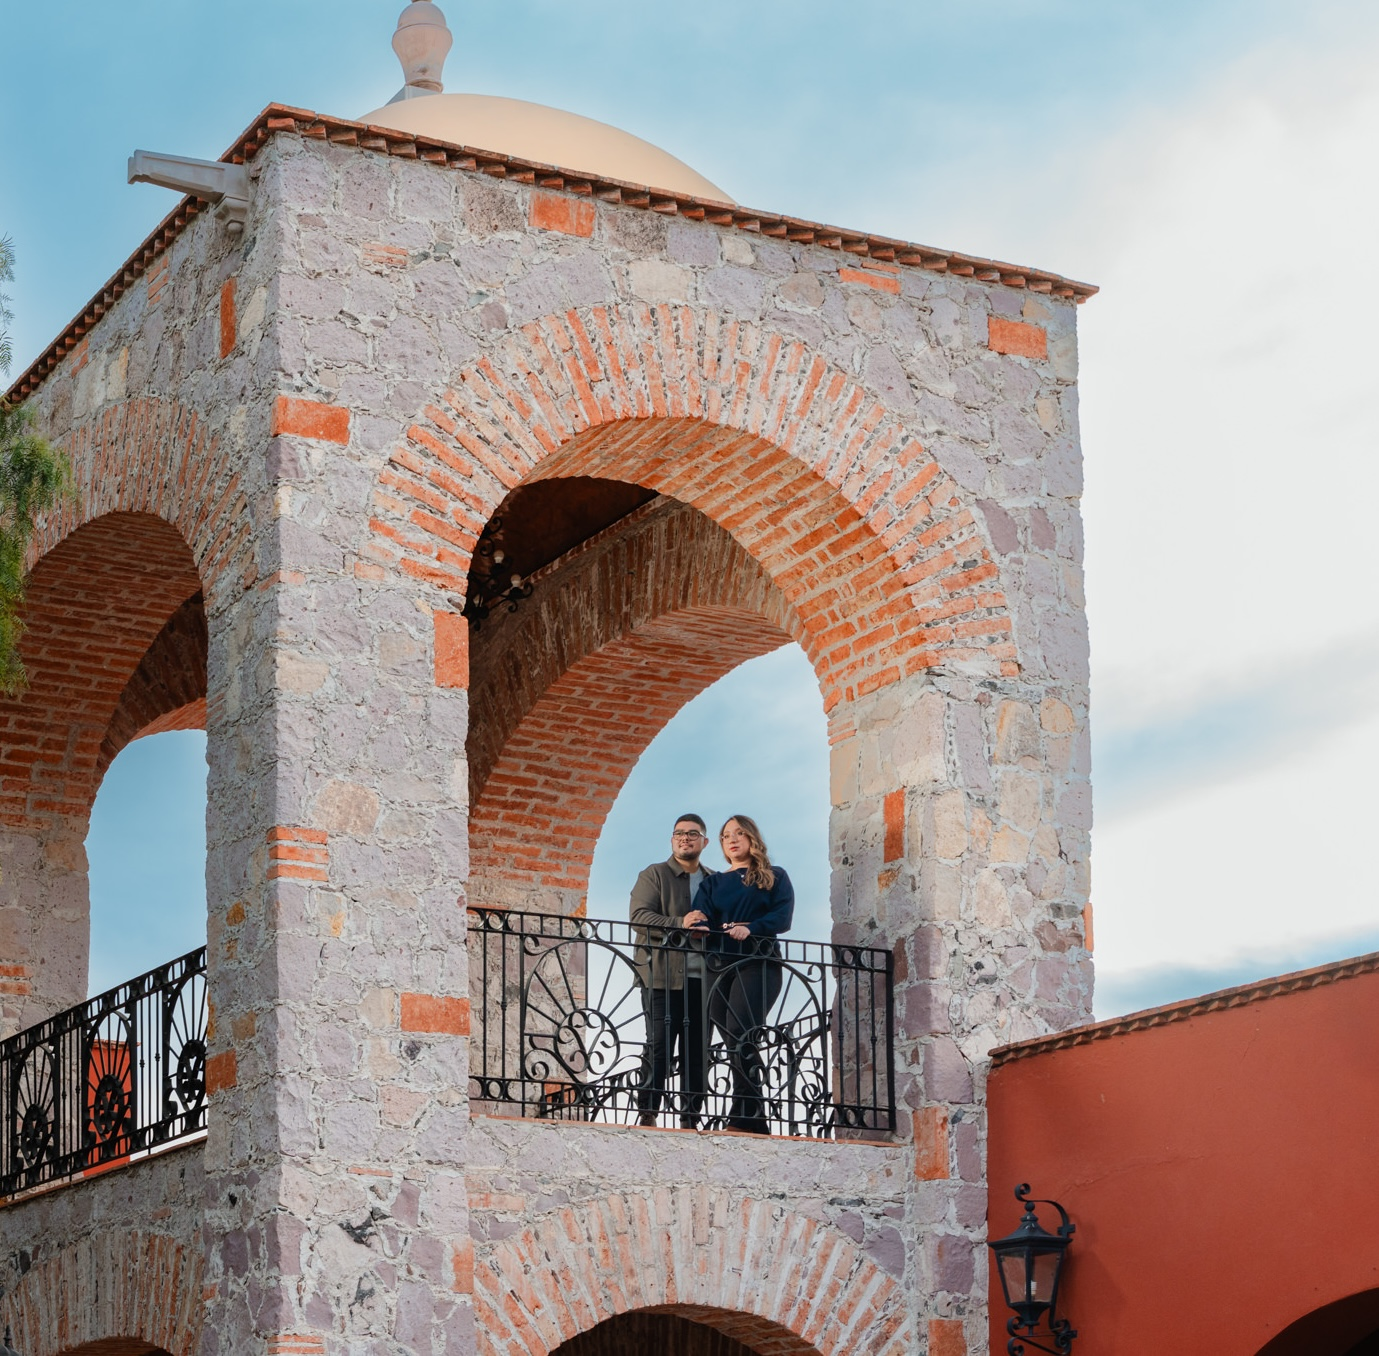
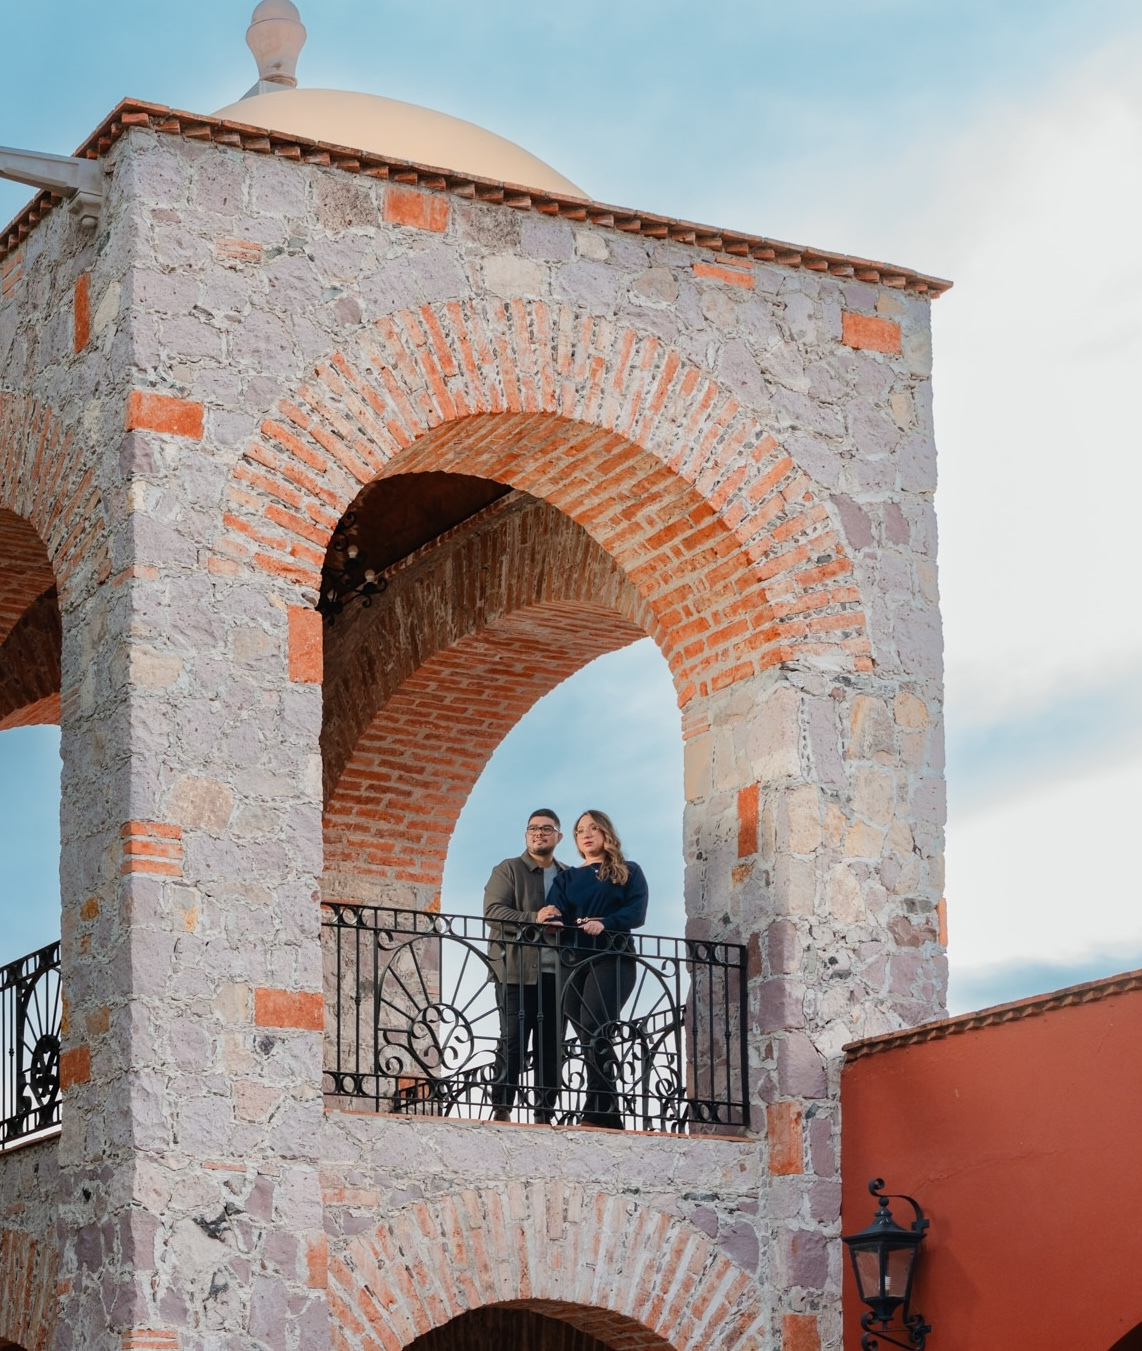
Cambios

diff --git a/public/inspiracion-boda.html b/public/inspiracion-boda.html
@@ -10,7 +10,7 @@
   <link rel="preconnect" href="https://fonts.googleapis.com" />
   <link rel="preconnect" href="https://fonts.gstatic.com" crossorigin />
   <link
-    href="https://fonts.googleapis.com/css2?family=Bona+Nova+SC:ital,wght@0,400;0,700;1,400&family=Playfair+Display:wght@400;600&family=Poppins:wght@300;400;500&family=Sacramento&display=swap"
+    href="https://fonts.googleapis.com/css2?family=Bona+Nova+SC:ital,wght@0,400;0,700;1,400&family=Noto+Sans+SC:wght@400;700&family=Playfair+Display:wght@400;600&family=Poppins:wght@300;400;500&family=Rouge+Script&family=Sacramento&display=swap"
     rel="stylesheet" />
 
   <style>
@@ -45,7 +45,7 @@
       content: "";
       position: absolute;
       inset: 0;
-      background: url("img/portada_boda.jpg") center 40%/cover no-repeat;
+      background: url("img/portada_boda.jpg") center 75%/cover no-repeat;
       transform: scale(1.03);
     }
 
@@ -112,7 +112,7 @@
       margin: 0;
       line-height: 1.05;
       color: #fff;
-      text-shadow: 0 4px 14px rgba(0, 0, 0, 0.35);
+      text-shadow: none;
     }
 
     .insp-couple.names-alt {
@@ -120,12 +120,19 @@
       font-size: clamp(54px, 8vw, 94px);
       color: #fff;
       font-family: 'Bona Nova SC', serif;
+      transform: translateX(18px);
     }
 
     .insp-couple .first,
     .insp-couple .last {
       position: relative;
-      top: -34px;
+      top: -52px;
+    }
+
+    .insp-couple .amp-alt {
+      position: relative;
+      top: -52px;
+      font-family: 'Rouge Script', cursive;
     }
 
     .insp-couple .first {
@@ -141,8 +148,8 @@
     .insp-hero-date {
       text-align: right;
       color: #fff;
-      text-shadow: 0 6px 18px rgba(0, 0, 0, 0.6);
-      font-family: 'Playfair Display', serif;
+      text-shadow: none;
+      font-family: 'Bona Nova SC', serif;
       letter-spacing: .08em;
       text-transform: uppercase;
       padding-bottom: 8px;
@@ -151,7 +158,7 @@
 
     .insp-hero-date .day {
       display: block;
-      font-size: clamp(18px, 2.4vw, 28px);
+      font-size: clamp(22px, 2.8vw, 34px);
       font-weight: 700;
     }
 
@@ -169,6 +176,17 @@
       text-align: center;
     }
 
+    .insp-hero-date-float {
+      position: absolute;
+      left: 50%;
+      bottom: 84px;
+      transform: translateX(-50%);
+      z-index: 1;
+      text-align: center;
+      min-width: 0;
+      padding: 0;
+    }
+
     .insp-date-under-hero .insp-hero-date {
       min-width: 0;
       padding: 0;
@@ -178,6 +196,7 @@
     }
 
     .insp-date-under-hero .insp-hero-date .day {
+      font-family: 'Bona Nova SC', serif;
       font-size: clamp(28px, 3.8vw, 54px);
       font-weight: 700;
       letter-spacing: .06em;
@@ -266,7 +285,7 @@
     .insp-countdown-hero {
       position: relative;
       margin: 0 0 18px;
-      min-height: 300px;
+      min-height: 475px;
       display: flex;
       flex-direction: column;
       justify-content: center;
@@ -274,7 +293,7 @@
       text-align: center;
       overflow: hidden;
       color: #f6f3ef;
-      background: url("img/Carrusel/Preboda Karen & Sergio - Luis Houdin WEB (1150 de 175).jpg") center/cover no-repeat;
+      background: url("img/Carrusel/Preboda Karen & Sergio - Luis Houdin WEB (1150 de 175).jpg") center 64%/cover no-repeat;
     }
 
     .insp-countdown-hero::before {
@@ -313,7 +332,7 @@
 
     .insp-cd-value {
       display: block;
-      font-family: 'Playfair Display', serif;
+      font-family: 'Bona Nova SC', serif;
       font-size: clamp(34px, 5.4vw, 60px);
       font-weight: 400;
       line-height: 1.02;
@@ -492,8 +511,8 @@
       }
 
       .insp-hero::before {
-        background-image: url("img/portada_boda.jpg");
-        background-position: center 44%;
+        background-image: url("img/portada_boda.jpeg");
+        background-position: 14% 44%;
       }
 
       .insp-nav {
@@ -516,11 +535,16 @@
 
       .insp-couple.names-alt {
         font-size: clamp(48px, 13vw, 74px);
+        transform: translateX(12px);
       }
 
       .insp-couple .first,
       .insp-couple .last {
-        top: -22px;
+        top: -30px;
+      }
+
+      .insp-couple .amp-alt {
+        top: -30px;
       }
 
       .insp-couple .first {
@@ -551,6 +575,10 @@
         padding: 10px 14px 14px;
       }
 
+      .insp-hero-date-float {
+        bottom: 32px;
+      }
+
       .insp-intro p {
         font-size: 13px;
       }
@@ -571,7 +599,7 @@
       }
 
       .insp-countdown-hero {
-        min-height: 270px;
+        min-height: 475px;
       }
 
       .insp-countdown-grid {
@@ -608,6 +636,7 @@
         column-gap: 10px;
         row-gap: 6px;
         align-items: center;
+        transform: translateX(8px);
       }
 
       .insp-couple .first,
@@ -633,10 +662,12 @@
       .insp-couple .amp-alt {
         grid-area: amp;
         justify-self: center;
+        position: relative;
+        top: -12px;
       }
 
       .insp-countdown-hero {
-        min-height: 250px;
+        min-height: 275px;
       }
 
       .insp-countdown-grid {
@@ -672,6 +703,7 @@
         margin-top: auto;
         justify-content: center;
         align-items: center;
+        transform: translateY(-70%);
       }
 
       .insp-copy {
@@ -711,12 +743,10 @@
             </h1>
           </div>
         </div>
-      </header>
-      <div class="insp-date-under-hero" aria-label="Fecha de la boda">
-        <div class="insp-hero-date">
-          <span class="day">SÁBADO 11 DE JULIO DE 2026</span>
+        <div class="insp-hero-date insp-hero-date-float" aria-label="Fecha de la boda">
+          <span class="day">11 DE JULIO DE 2026</span>
         </div>
-      </div>
+      </header>
 
       <div class="insp-body">
         <p class="insp-blessing countdown dancing-script">
